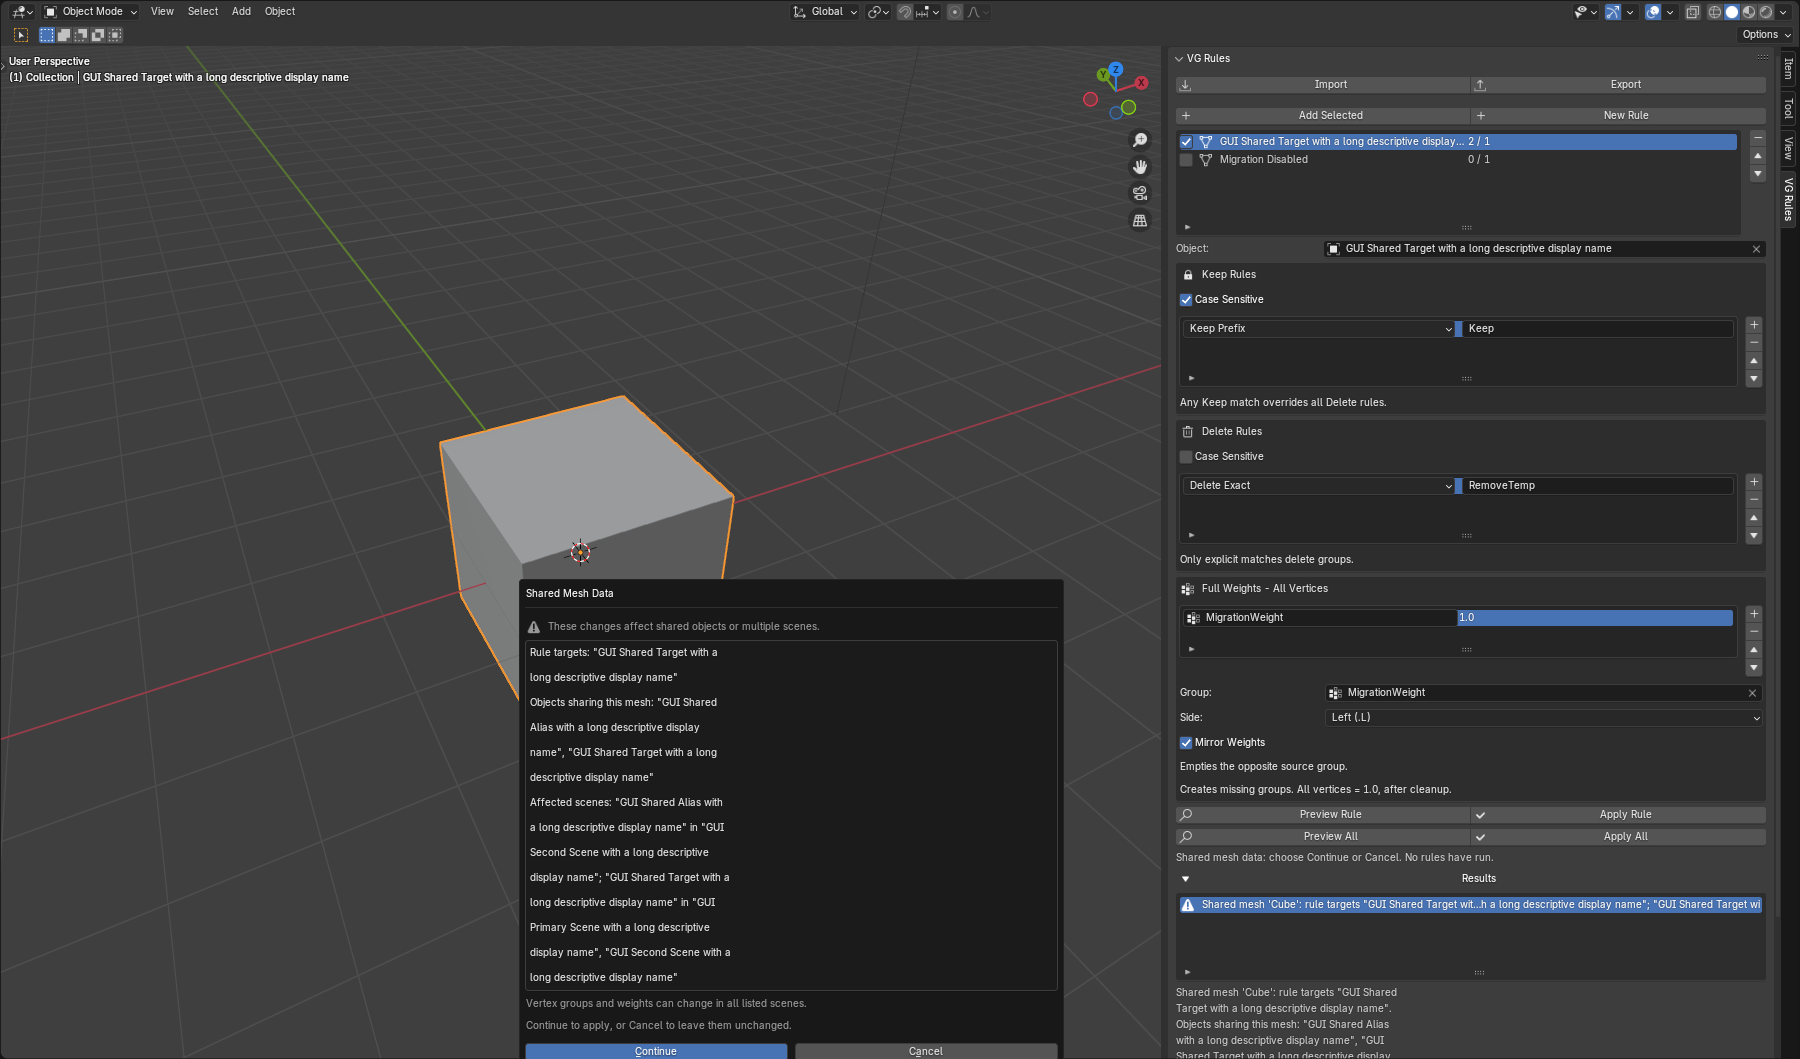
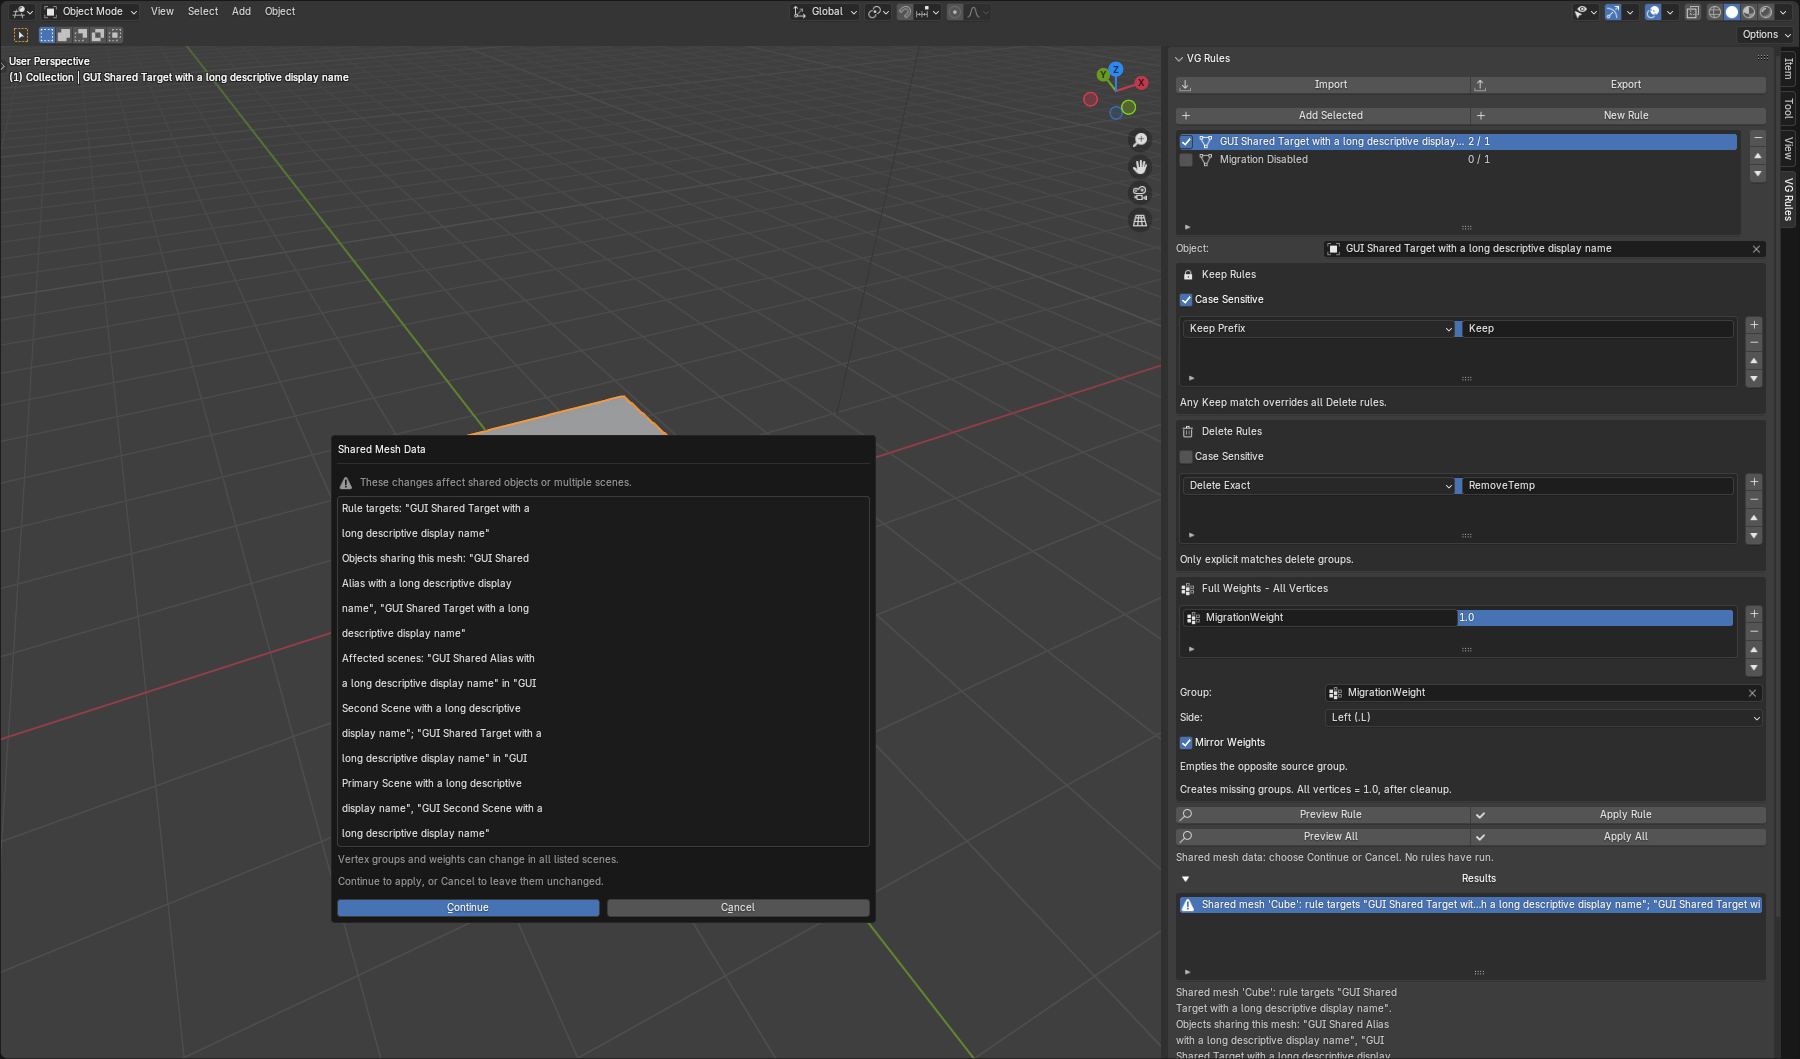
Record final candidate GUI checks and supported platform results

Changed region(s): [[0.1867, 0.4051, 0.5911, 1.0]]

diff --git a/CHANGELOG.md b/CHANGELOG.md
@@ -10,13 +10,26 @@
 - Prepare listing text, the existing cube thumbnail, and genuine Preview/Apply
   screenshots from the packaged extension using a generated scene. Keep all
   submission artwork outside the installers.
+- Run the full source and installed-extension regressions on checksum-pinned
+  Blender 4.2.0, 4.2.23 and 5.2.0 in GitHub Actions, including real installation,
+  disable/re-enable, legacy migration, update, fresh-process restart and uninstall.
+- Add cross-scene shared-mesh and cancelled/rejected batch checks, with snapshots
+  of groups, locks, weights and per-object Mirror settings.
+- Use temporary fixtures and profiles, and enforce read-only installation access.
+  On Windows compare restored access rules and inheritance protection, allowing
+  Windows to normalize SDDL metadata. Write denial remains mandatory.
+- Make ZIP metadata reproducible and use LF text checkouts on every platform.
+  Keep a release gate that rejects missing, failed or wrong-hash evidence.
 
-Verification: 15 packaging checks, source integration and runtime regressions,
-and installed-extension checks passed on Windows with Blender 4.2.23 and 5.2.0.
-Installed checks use enforced read-only directories and verify packaged bytes.
-The final extension passed the official validator. Preview/Apply captures use
-that installed ZIP and verify the synthetic scene's actual weights and groups.
-macOS and Linux verification remains pending.
+Verification: 22 packaging/release-gate unit checks passed, with the real Blender
+validator rejection test enabled. Full source, runtime, installed ZIP and lifecycle
+checks passed on all eleven supported hosted combinations: Windows x64, Linux x64
+and macOS Apple Silicon on all three pinned versions, plus macOS Intel on both
+4.2 versions. Blender 5.2.0 has no official Intel build and is unsupported there.
+Local Windows GUI checks passed on all three versions: warning layout, actual
+Cancel/Continue, Ctrl-Z Undo, and saved legacy .blend/JSON migration. Product
+captures and GUI evidence use the final archive. See the hash-bound
+[compliance report](submission/COMPLIANCE.md) for actual results and scope.
 
 ## 0.1.1 (2026-10-08)
 

diff --git a/README.md b/README.md
@@ -8,8 +8,10 @@ This is the canonical development repository for VG Rules.
 - Assign all vertices to groups at weight 1.0, with optional side and Mirror settings.
 - Save rules in the `.blend` file and exchange JSON presets.
 
-Version **0.1.2**. Requires Blender **4.2 or later**. Tested on Windows with
-Blender **4.2.23 LTS** and **5.2.0 LTS**; macOS and Linux verification is pending.
+Version **0.1.2**. Requires Blender **4.2 or later**. Verified on Windows x64,
+Linux x64 and macOS Apple Silicon with Blender **4.2.0**, **4.2.23** and **5.2.0**.
+macOS Intel is verified on **4.2.0** and **4.2.23**; Blender 5.2.0 has no official
+Intel build and is unsupported there. Local GUI checks cover all three Windows versions.
 The extension package has not yet been submitted for Blender platform review.
 
 Public guides: [Installation](docs/installation.md), [Usage](docs/usage.md),
@@ -109,10 +111,13 @@ python -m unittest discover -s tests -p "test_*.py"
 python tests/run_blender.py --blender /path/to/blender
 ```
 
-Build the extension first. The Blender runner uses fresh offline profiles and
-generated meshes, presets and scenes. It checks source and the installed extension
-namespace, including an installation with write access denied. Output stays in
-ignored `tests/.artifacts/`. See [CHANGELOG](CHANGELOG.md) for release changes.
+Build both installers first. The runner uses temporary offline profiles and
+generated meshes, presets and scenes. It runs the full source and installed ZIP
+suites with enforced read-only permissions, then separate processes for migration,
+update, restart and uninstall. GitHub Actions tests eleven required platform/version
+pairs using one candidate archive. See [Verification](docs/verification.md), the
+[archive-bound compliance report](submission/COMPLIANCE.md) and [CHANGELOG](CHANGELOG.md).
+Missing, failed or stale results block submission readiness.
 
 ## Support and license
 

diff --git a/submission/LISTING.md b/submission/LISTING.md
@@ -51,8 +51,11 @@ or migrating. **Fully quit and restart Blender after replacing an installation.*
 [Troubleshooting](https://github.com/cheinu-mike/vg-rules/blob/main/docs/troubleshooting.md) ·
 [Support: GitHub Issues](https://github.com/cheinu-mike/vg-rules/issues)
 
-Version 0.1.2 is verified on Windows with Blender 4.2.23 and 5.2.0. macOS/Linux
-verification remains pending. The runtime needs only file permission for presets;
+Version 0.1.2 is verified on Windows x64, Linux x64 and macOS Apple Silicon with
+Blender 4.2.0, 4.2.23 and 5.2.0, and on macOS Intel with 4.2.0 and 4.2.23.
+Blender 5.2.0 has no official macOS Intel build and is unsupported there.
+[Verification results](https://github.com/cheinu-mike/vg-rules/blob/main/submission/COMPLIANCE.md).
+The runtime needs only file permission for presets;
 it has no external dependencies, network calls, registration requirement or custom updater.
 
 Copyright (C) 2026 Blank Glyph. GPL-3.0-or-later; editable Python source is included.

diff --git a/submission/README.md b/submission/README.md
@@ -11,6 +11,13 @@ has not yet been submitted for platform review.
 | [images/preview.png](images/preview.png) | Genuine Preview Rule capture from the installed extension |
 | [images/apply.png](images/apply.png) | Genuine Apply Rule result from the same synthetic scene |
 | [capture.json](capture.json) | Packaged-extension SHA-256, Blender version, preset, before/after weights and image hashes |
+| [COMPLIANCE.md](COMPLIANCE.md) | Actual platform and GUI results, release scope and final archive hashes |
+| [gui-results.json](gui-results.json) | Native warning, Cancel/Continue, Undo and migration evidence on three Windows versions |
+
+Read the compliance report before submitting. All eleven supported hosted
+platform/version pairs and the local GUI checks must pass against the final ZIP.
+Blender 5.2.0 on Intel macOS is unsupported; both pinned 4.2 versions cover Intel.
+Upload and moderation follow preparation and verification.
 
 ## Screenshot captions
 

diff --git a/AGENTS.md b/AGENTS.md
@@ -5,6 +5,13 @@ Derive installer filenames from `vg_rules/__init__.py`'s `bl_info` version and
 require matching `blender_manifest.toml` metadata.
 Record release changes and verification limits in `CHANGELOG.md`.
 
+Require all eleven supported hosted platform/version combinations and local
+Windows GUI checks to pass against the final archive hash before marking it
+submission-ready. Blender 5.2.0 on macOS Intel is unsupported; verify Intel on
+4.2.0 and 4.2.23. Missing, failed or stale evidence is a release blocker.
+Keep generated fixtures in disposable temporary directories. Preserve portable
+results and screenshots separately from the installers.
+
 # Packaging
 
 Use one shared add-on implementation and two separate builders. Only the

diff --git a/docs/troubleshooting.md b/docs/troubleshooting.md
@@ -32,5 +32,8 @@ Include:
 - Results text, warning/error messages and a screenshot if helpful.
 - A small synthetic mesh and preset if needed. Remove personal/confidential data first.
 
-The runtime is verified on Windows with Blender 4.2.23 and 5.2.0, including read-only
-extension directories. macOS/Linux verification remains pending.
+The full source and installed-extension suites, including read-only directories,
+pass on Windows x64, Linux x64 and macOS Apple Silicon with Blender 4.2.0,
+4.2.23 and 5.2.0, and macOS Intel with 4.2.0 and 4.2.23. Blender 5.2.0 on Intel
+macOS is unsupported because there is no official build. Local GUI checks cover
+Windows only. See [actual results and scope](../submission/COMPLIANCE.md).

diff --git a/docs/installation.md b/docs/installation.md
@@ -1,7 +1,9 @@
 # Install VG Rules
 
-Requires Blender **4.2 or later**. Version 0.1.2 is verified on Windows with
-Blender 4.2.23 LTS and 5.2.0 LTS. macOS/Linux verification remains pending.
+Requires Blender **4.2 or later**. Version 0.1.2 is verified on Windows x64,
+Linux x64 and macOS Apple Silicon with Blender 4.2.0, 4.2.23 and 5.2.0. macOS
+Intel is verified on 4.2.0 and 4.2.23; 5.2.0 has no official Intel build and is
+unsupported there. See the [verification report](../submission/COMPLIANCE.md).
 
 ## Extension package
 
